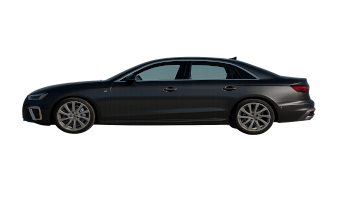
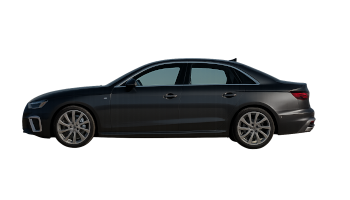
Redo image set for vehicule 5, Add image set for vehicule 3

Changed region(s): [[0.0571, 0.27, 0.9143, 0.75]]

diff --git a/assets/js/base-vehicules-disponibles.js b/assets/js/base-vehicules-disponibles.js
@@ -21,15 +21,18 @@ export const baseVehiculesDisponibles = [
         agence: 'Agence de Paris'
     },
     {
-        urls: ['assets/img/vehicule3.png'],
+        urls: ['assets/img/vehicule3-4.png', 'assets/img/vehicule3-5.png',
+            'assets/img/vehicule3-1.png', 'assets/img/vehicule3-2.png',
+            'assets/img/vehicule3-3.png'],
         modele: 'Opel Mokka',
         description: 'Diesel, 5 portes, GPS, AutoRadio, Forfait 1000 km (0,4/km supplémentaire).',
         prix: 1150,
         agence: 'Agence de Paris'
     },
     {
-        urls: ['assets/img/vehicule5-1.png', 'assets/img/vehicule5-2.png', 'assets/img/vehicule5-3.png',
-            'assets/img/vehicule5-4.png', 'assets/img/vehicule5-5.png'],
+        urls: ['assets/img/vehicule5-4.png', 'assets/img/vehicule5-5.png',
+            'assets/img/vehicule5-1.png', 'assets/img/vehicule5-2.png',
+            'assets/img/vehicule5-3.png'],
         modele: 'Audi A4',
         description: 'Diesel, 5 portes, GPS, AutoRadio, Forfait 1000 km (0,4/km supplémentaire).',
         prix: 1229,
